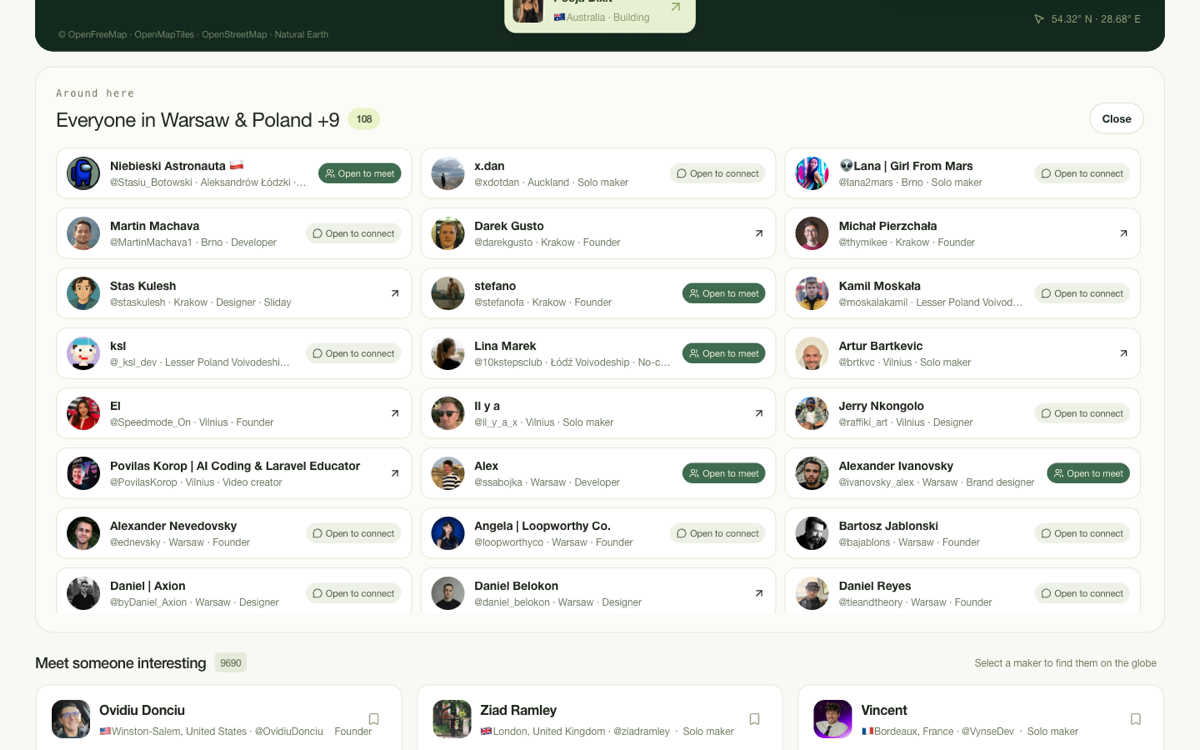
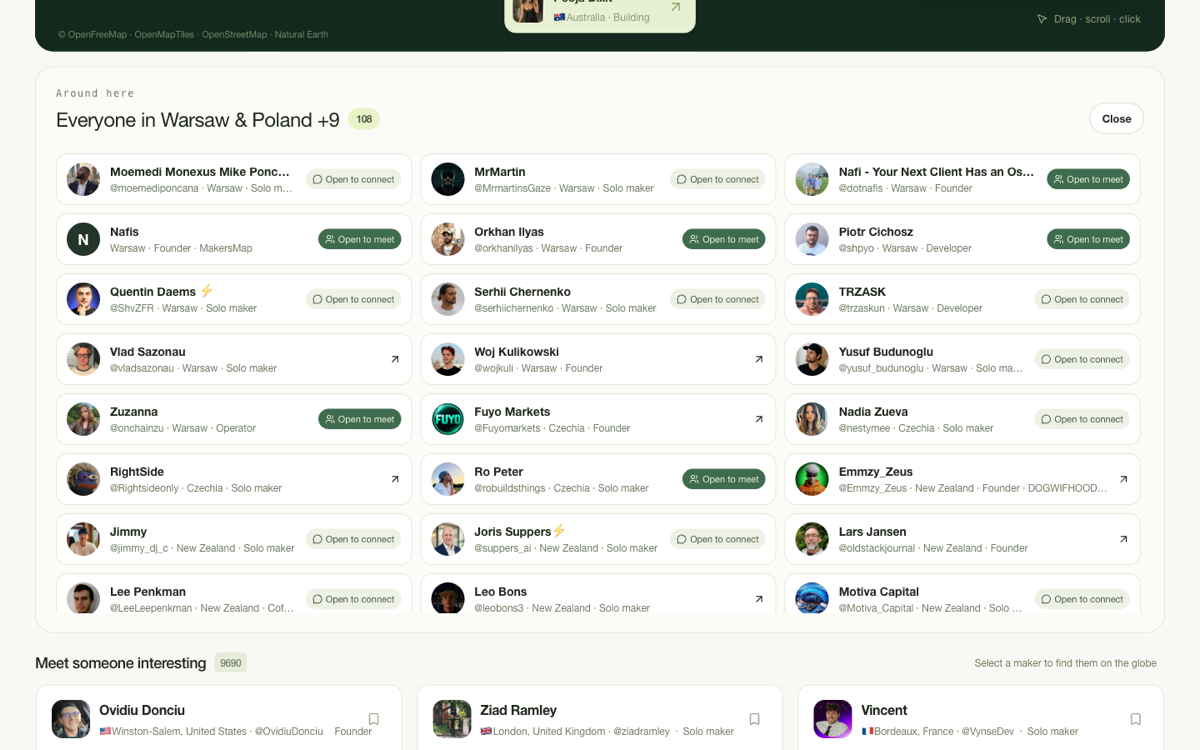
Feature the maintainer in the README screenshots

Changed region(s): [[0.0308, 0.184, 0.9558, 0.828], [0.8633, 0.0, 0.9558, 0.0307]]

diff --git a/README.md b/README.md
@@ -14,11 +14,11 @@ A city-level atlas of makers, founders, designers, and developers. People appear
 
 ![Maker cards](docs/screenshots/people.png)
 
-**Ask the atlas.** Natural-language search over the roster: "founders in Lisbon up for coffee this week" zooms the map and explains why each match fits.
+**Ask the atlas.** Natural-language search over the roster: "founders in Warsaw who want to meet for lunch" zooms the map and explains why each match fits.
 
 ![Ask the atlas results](docs/screenshots/ask.png)
 
-**Profiles built from one post.** The intro post is pinned, and the role, city, local time, what they're building, what they're looking for, and what they can help with come from the post and the X bio. Owners claim the pin with Sign in with X and then control every word.
+**Profiles built from one post.** The intro post is pinned (this one is [@dotnafis](https://x.com/dotnafis/status/2101745412201738407), the maintainer), and the role, city, local time, what they're building, what they're looking for, and what they can help with come from the post and the X bio. Owners claim the pin with Sign in with X and then control every word.
 
 ![A maker profile](docs/screenshots/profile.png)
 
